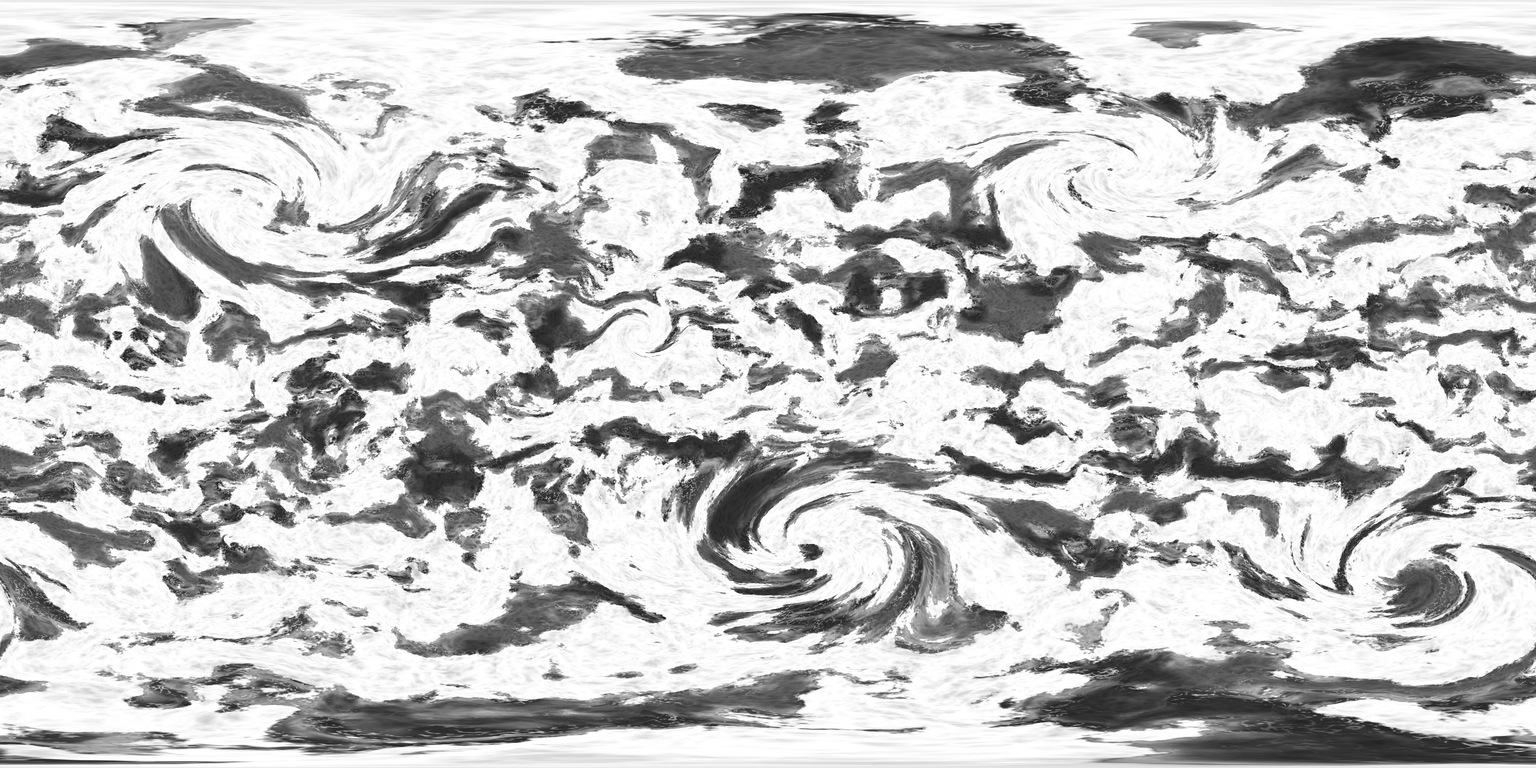
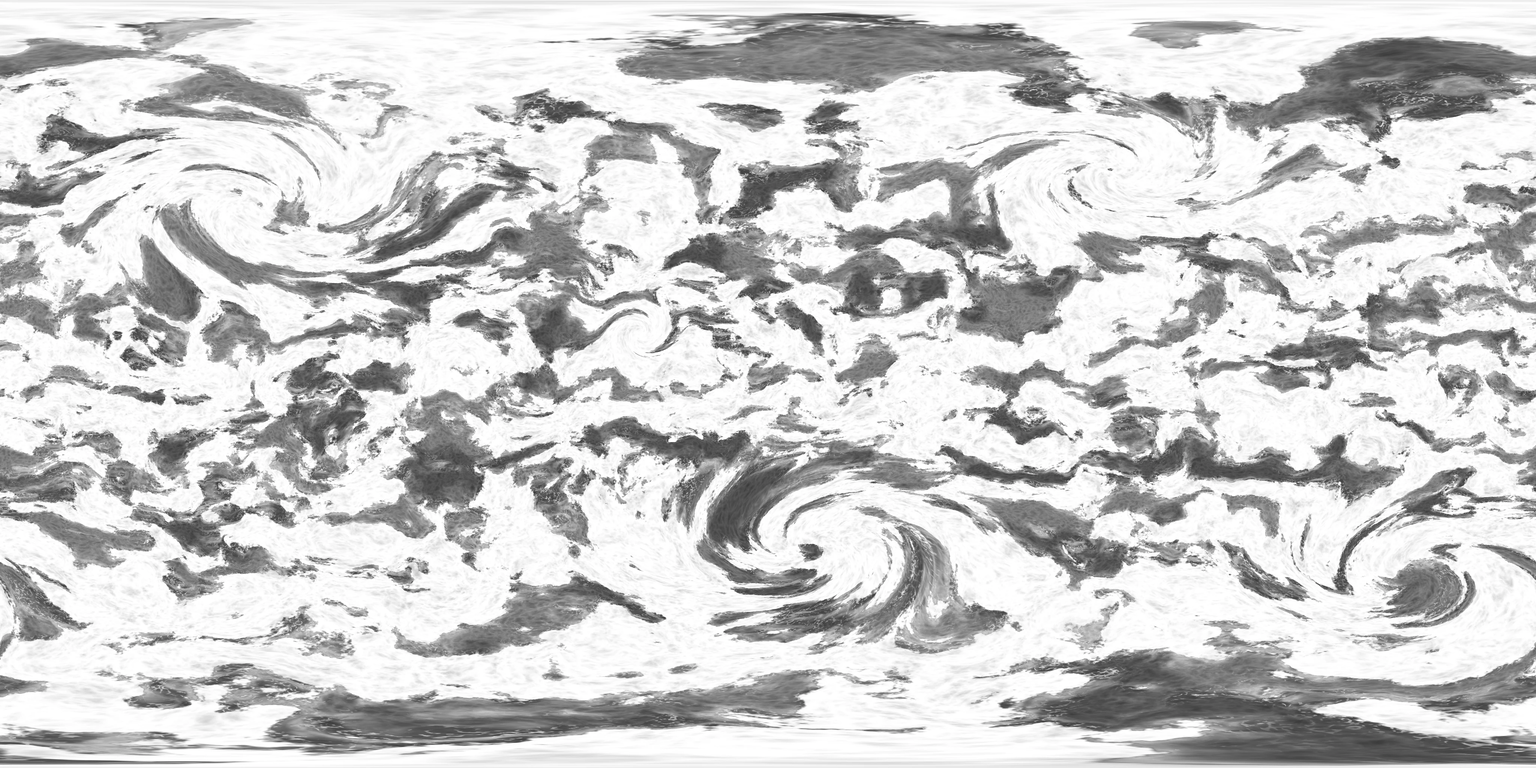
Chromium review fixes: darker deck and thicker veil, ember glow as continuous bands, soft lightning that follows the cloud, smoothed cloud normals, vents kept to the rifts
Claude-Session: https://claude.ai/code/session_01K8R5kqduobr76DoBg9xGr3

diff --git a/web/src/lib/system/emissiveFlicker.ts b/web/src/lib/system/emissiveFlicker.ts
@@ -138,7 +138,8 @@ float cityDetail(vec3 q) {
 // Lightning: storm cells on a coarse grid. In each short time slot a few cells flash, a quick
 // double pulse lighting a soft patch of cloud from inside, with a small bright core.
 float lightning(vec3 q, float t) {
-  const float S = 12.0;
+  // Coarse cells, and flashes small enough (halo < 0.6 cell) that a neighbour search never clips them.
+  const float S = 6.0;
   vec3 base = floor(q * S);
   float sum = 0.0;
   for (int i = -1; i <= 1; i++)
@@ -148,15 +149,16 @@ float lightning(vec3 q, float t) {
     // Each cell keeps its own clock, so the flashes don't fire together.
     float tt = t * 1.3 + 7.0 * hash13(cell + 77.7);
     float slot = floor(tt);
-    float on = step(0.992, hash13(cell + slot * 1.37));
+    float on = step(0.97, hash13(cell + slot * 1.37));
     if (on == 0.0) continue;
     float ph = fract(tt);
     float pulse = smoothstep(0.0, 0.02, ph) * smoothstep(0.12, 0.03, ph)
       + 0.7 * smoothstep(0.16, 0.18, ph) * smoothstep(0.3, 0.2, ph);
     vec3 c = normalize((cell + 0.5 + 0.8 * (vec3(hash13(cell + slot + 3.1), hash13(cell + slot + 5.7), hash13(cell + slot + 9.3)) - 0.5)) / S);
     float d = length(q - c);
-    float r = 0.025 + 0.03 * hash13(cell + slot + 13.9);
-    sum += pulse * (0.7 * smoothstep(r * 1.6, 0.0, d) + 0.35 * smoothstep(r * 0.5, 0.0, d));
+    float r = 0.012 + 0.012 * hash13(cell + slot + 13.9);
+    // A soft core and a dim halo a few times wider: a flash lights its whole storm cell.
+    sum += pulse * (0.6 * smoothstep(r * 1.6, 0.0, d) + 0.15 * smoothstep(r * 4.0, 0.0, d));
   }
   return sum;
 }
@@ -185,9 +187,11 @@ float fnoise(vec3 x) {
   // dark, peaking at the terminator; the direct light takes over further in.
   // Lightning lights thick cloud from inside, brightest on the night side.
   if (uLightning > 0.0) {
-    float thick = smoothstep(0.5, 0.9, diffuseColor.a / max(opacity, 1e-3));
+    // Follows the cloud's thickness rather than cutting off at an edge, so it lights the billows.
+    float a = diffuseColor.a / max(opacity, 1e-3);
+    float thick = smoothstep(0.2, 0.7, a) * a;
     float night = smoothstep(0.2, -0.1, sunward);
-    totalEmissiveRadiance += vec3(0.75, 0.8, 1.0) * uLightning * thick * (0.25 + 0.75 * night) * lightning(q, uTime);
+    totalEmissiveRadiance += vec3(0.7, 0.72, 1.0) * uLightning * thick * (0.25 + 0.75 * night) * lightning(q, uTime);
   }
   if (uTwilight > 0.0) {
     float dusk = smoothstep(-0.24, 0.02, sunward) * smoothstep(0.3, 0.02, sunward);

diff --git a/web/src/lib/system/bodies.ts b/web/src/lib/system/bodies.ts
@@ -148,15 +148,15 @@ export const CHROMIUM: BodyLook = {
 	glow: 1.6,
 	flicker: 0.6,
 	clouds: {
-		color: [0.13, 0.13, 0.15],
+		color: [0.07, 0.07, 0.08],
 		opacity: 0.95,
 		drift: 0,
 		normal: true,
-		glow: 0.7,
-		lightning: 1.0,
+		glow: 0.4,
+		lightning: 0.8,
 		near: 0.55
 	},
-	atmosphere: { color: [0.5, 0.48, 0.8], strength: 0.4 }
+	atmosphere: { color: [0.5, 0.48, 0.8], strength: 0.22 }
 };
 
 /**

diff --git a/tools/planets/chromium.py b/tools/planets/chromium.py
@@ -40,7 +40,7 @@ from pathlib import Path
 import numpy as np
 
 from clouds import make_clouds, rank
-from mystra import blur, save_mist_glow
+from mystra import blur
 from planetgen import (
     Noise3,
     angular_distance,
@@ -104,7 +104,7 @@ def generate(width: int, out: Path) -> None:
     # into dashes by a second field, so only some segments are open (and glowing) at once.
     crest = ridged(n[8], p * 30 + warp * 3, 3)
     crack = smoothstep(0.84, 0.93, crest) * belt
-    dash = smoothstep(0.45, 0.75, rank(fbm(n[9], p * 18 + warp * 2, 3)))
+    dash = smoothstep(0.3, 0.55, rank(fbm(n[9], p * 18 + warp * 2, 3)))
     glow = crack * dash
     # A wider, dimmer skirt: warm ground around the open cracks (blurred by a coarser field).
     skirt = smoothstep(0.7, 0.93, crest) * belt * smoothstep(0.3, 0.7, rank(fbm(n[9], p * 18 + warp * 2, 3)))
@@ -112,7 +112,7 @@ def generate(width: int, out: Path) -> None:
     # Vents: calderas, most in the belts.
     lat = np.degrees(g.lat)
     lon = np.degrees(g.lon)
-    weight = (0.15 + belt) * np.cos(g.lat)
+    weight = (0.04 + belt) * np.cos(g.lat)
     weight = weight.ravel().astype(np.float64)
     weight /= weight.sum()
     vents = np.zeros(g.lat.shape, np.float32)
@@ -130,7 +130,7 @@ def generate(width: int, out: Path) -> None:
         rows = np.where(np.abs(lat[:, 0] - la) < 8 * r + 0.5)[0]
         sub = (slice(rows[0], rows[-1] + 1), slice(None))
         d = angular_distance(g, la, lo)[sub] / r
-        b = float(rng.uniform(0.4, 1.0))
+        b = float(rng.uniform(0.4, 1.0)) * (0.3 + 0.7 * float(belt.flat[idx]))
         vents[sub] = np.maximum(vents[sub], b * (smoothstep(1.0, 0.2, d) + 0.25 * smoothstep(4.0, 1.0, d)))
         pit[sub] = np.maximum(pit[sub], smoothstep(2.5, 0.8, d))
     print(f"fissures {time.time() - t0:.1f}s, {len(placed)} vents")
@@ -175,11 +175,23 @@ def generate(width: int, out: Path) -> None:
 
     clouds, thickness = storm_deck(g)
     save_gray(out / "clouds.webp", clouds)
-    save_rgb(out / "clouds-normal.webp", normal_map(thickness * 0.006, strength=1.0))
+    # Smoothed first: the raw thickness crazed into fine veins in grazing light at the terminator.
+    save_rgb(out / "clouds-normal.webp", normal_map(blur(thickness, 0.15 * g.width / 360) * 0.006, strength=1.0))
     print(f"  clouds: alpha>0.5 {float((clouds > 0.5).mean()):.3f}, alpha<0.2 {float((clouds < 0.2).mean()):.3f}")
-    save_mist_glow(out, emissive)
+    save_ember_glow(out, emissive)
     write_pins(out / "pins.json", "Chromium", [])
     print(f"done {time.time() - t0:.1f}s -> {out}")
+
+
+def save_ember_glow(out: Path, emissive: np.ndarray) -> None:
+    """clouds-glow.webp: the embers as the storm deck above them shows them. Wider than Mystra's
+    halos (~1° and ~2.5°), so each rift belt shows as one continuous dull band, not beads."""
+    h, w = emissive.shape[:2]
+    small = emissive[: h - h % 4, : w - w % 4].reshape(h // 4, 4, w // 4, 4, 3).mean(axis=(1, 3))
+    px = (w // 4) / 360
+    glow = np.stack([0.5 * blur(small[..., c], 1.0 * px) + 0.5 * blur(small[..., c], 2.5 * px) for c in range(3)], -1)
+    peak = float(np.percentile(glow.max(-1), 99.9))
+    save_rgb(out / "clouds-glow.webp", np.clip(glow / max(peak, 1e-6), 0, 1) ** 0.8)
 
 
 def storm_deck(g):
@@ -192,7 +204,7 @@ def storm_deck(g):
         dict(lat=-45, lon=150, ax=24, ay=16, swirl=-1.5, inflow=0.7),
         dict(lat=12, lon=-30, ax=7, ay=7, swirl=2.4, inflow=1.3, eye=0.6, strength=3.0, round=True),
     ]
-    return make_clouds(g, SEED, cover=0.62, storms=storms, veil=(0.2, 0.4), zoning=0.15)
+    return make_clouds(g, SEED, cover=0.62, storms=storms, veil=(0.35, 0.55), zoning=0.15)
 
 
 if __name__ == "__main__":
